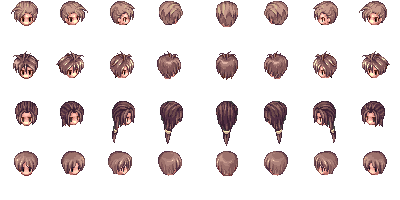
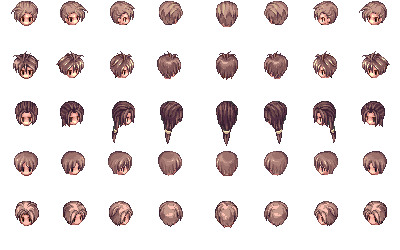
Ticket 10 : Add last men haircut

diff --git a/game/public/Constants.js b/game/public/Constants.js
@@ -218,9 +218,42 @@ var Constants = {
 						{
 							name: "fifthBlack",
 							overviewImage: '/styles/heads/men/fifth-hc-black-overview.png',
-							paddingY : -22,
+							paddingY : -20,
 							paddingX : -1,
-							animations: []
+							animations: [
+									{
+										name: 'down',
+										tiles: [32]
+									},
+									{
+										name: 'bottomRight',
+										tiles: [33]
+									},
+									{
+										name: 'right',
+										tiles: [34]
+									},
+									{
+										name: 'topRight',
+										tiles: [35]
+									},
+									{
+										name: 'top',
+										tiles: [36]
+									},
+									{
+										name: 'topLeft',
+										tiles: [37]
+									},
+									{
+										name: 'left',
+										tiles: [38]
+									},
+									{
+										name: 'bottomLeft',
+										tiles: [39]
+									}
+							]
 						}
 					]
 				}
